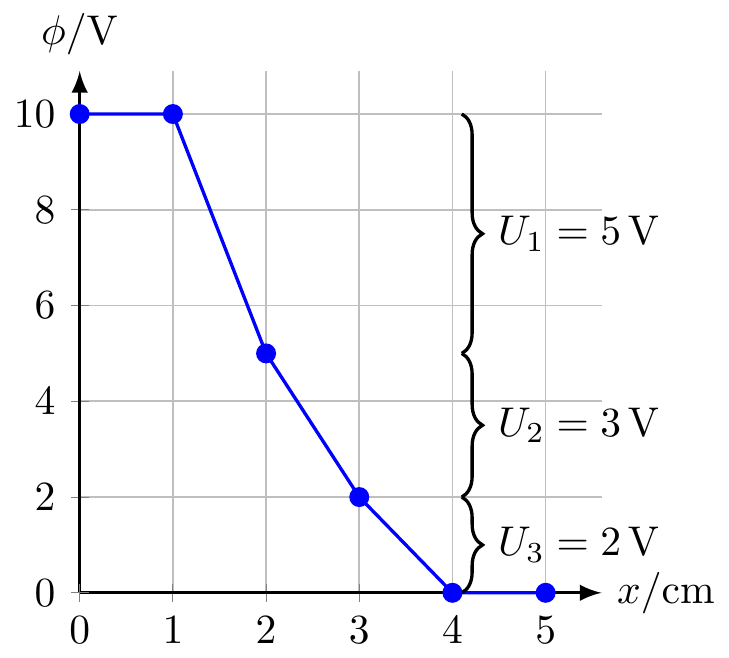
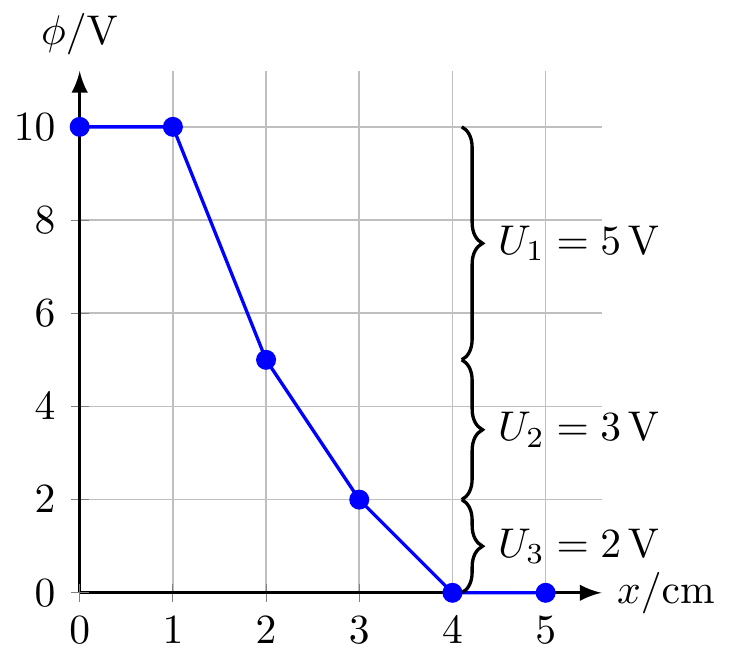
improve figure with potential

diff --git a/electrodynamics/circuit-series-potential/circuit-series-potential.tex b/electrodynamics/circuit-series-potential/circuit-series-potential.tex
@@ -39,7 +39,7 @@
     extra y ticks={0},
     extra y tick style={grid=none},
     xmin=0, xmax=5.6,
-    ymin=0, ymax=10.9,
+    ymin=0, ymax=11.2,
     clip=false,
     grid
     ]

diff --git a/electrodynamics/circuit-series-potential/circuit-series-potential_inverted.tex b/electrodynamics/circuit-series-potential/circuit-series-potential_inverted.tex
@@ -48,7 +48,7 @@
     extra y ticks={0},
     extra y tick style={grid=none},
     xmin=0, xmax=5.6,
-    ymin=0, ymax=10.9,
+    ymin=0, ymax=11.2,
     clip=false,
     grid
     ]

diff --git a/electrodynamics.md b/electrodynamics.md
@@ -387,7 +387,7 @@
     extra y ticks={0},
     extra y tick style={grid=none},
     xmin=0, xmax=5.6,
-    ymin=0, ymax=10.9,
+    ymin=0, ymax=11.2,
     clip=false,
     grid
     ]
@@ -1610,7 +1610,7 @@
     extra y ticks={0},
     extra y tick style={grid=none},
     xmin=0, xmax=5.6,
-    ymin=0, ymax=10.9,
+    ymin=0, ymax=11.2,
     clip=false,
     grid
     ]
